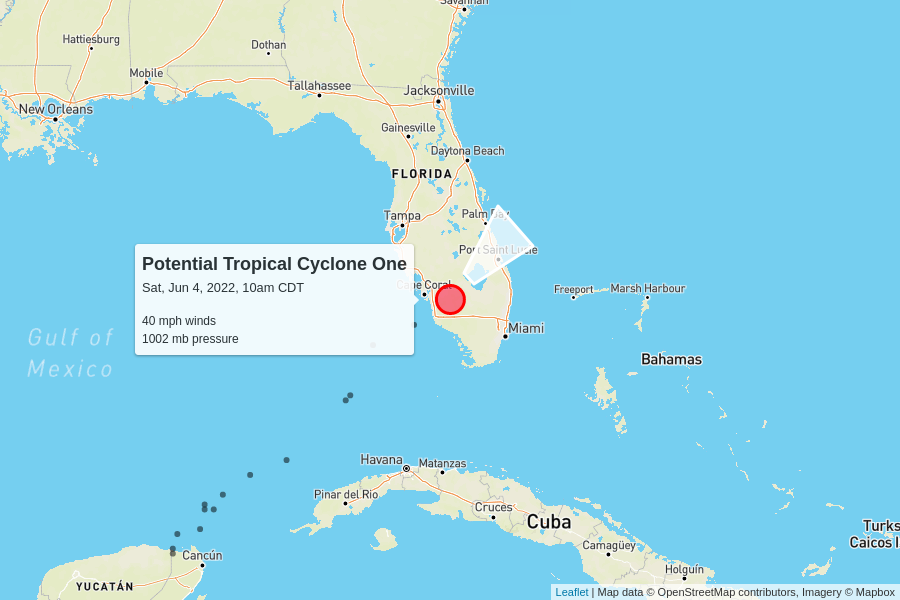
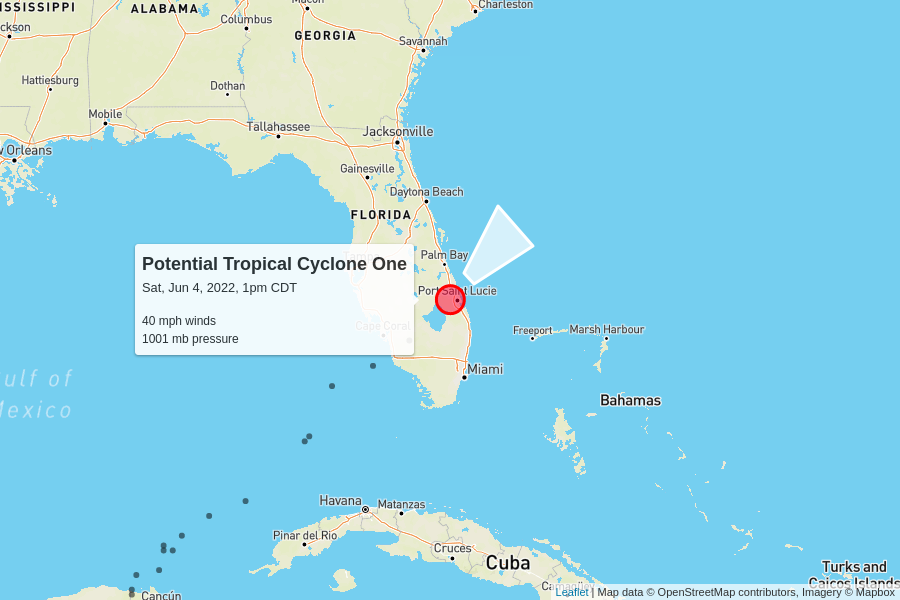
automatic update

diff --git a/docs/index.html b/docs/index.html
@@ -100,7 +100,7 @@
         <td colspan="6" class="storm category-0" >
           <h2>
             Potential Tropical Cyclone One
-            <p class="updated">last updated <span data-time>2022-06-04T15:00:00.000Z</span></p>
+            <p class="updated">last updated <span data-time>2022-06-04T18:00:00.000Z</span></p>
           </h2>
         </td>
       </tr>
@@ -116,7 +116,7 @@
       <tr>
         <td class="spacer"></td>
         <td>40 mph</td>
-        <td>1002 mb</td>
+        <td>1001 mb</td>
         <td>
           18 mph to the northeast
           <br/>
